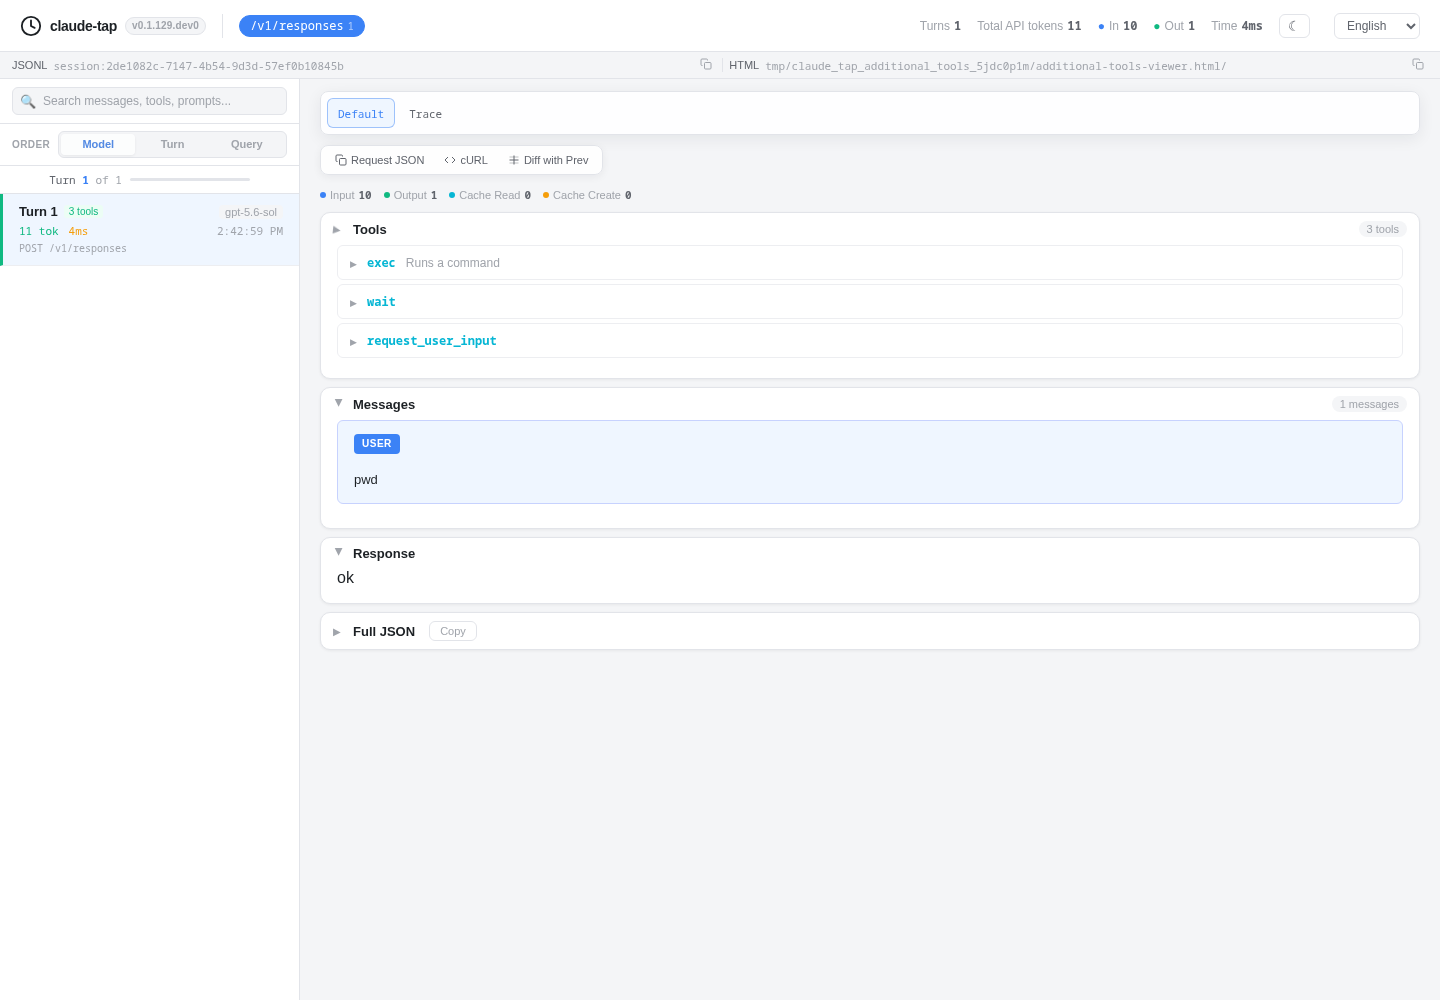
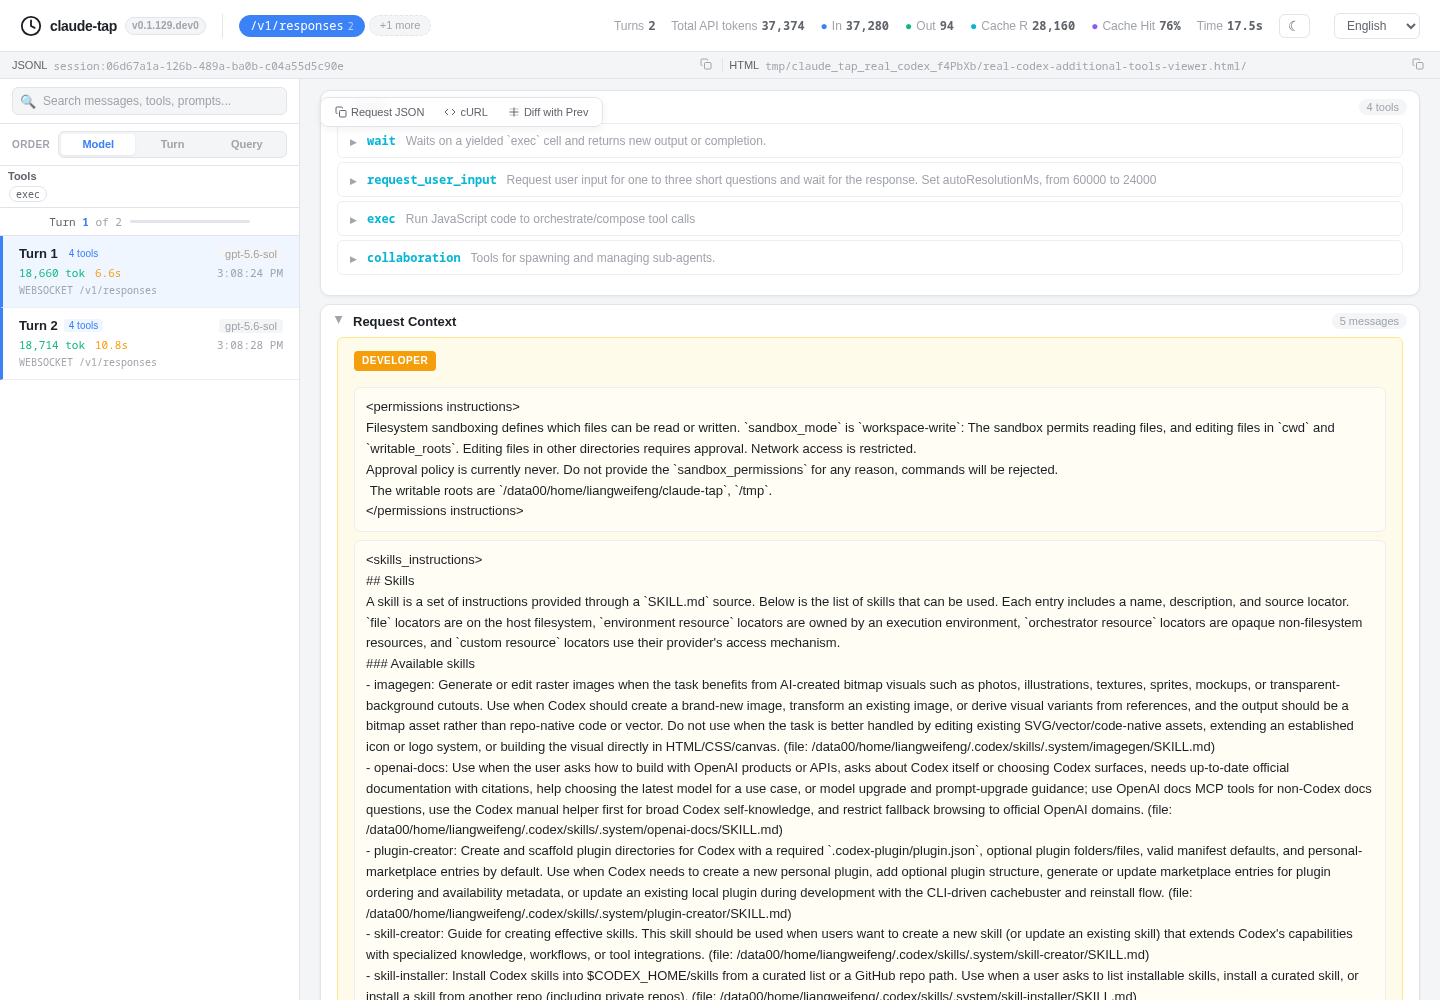
fix(viewer): preserve Codex websocket tools

diff --git a/claude_tap/viewer_assets/responses.js b/claude_tap/viewer_assets/responses.js
@@ -455,8 +455,20 @@ function stitchDirectResponsesEntry(entry, historyByResponseId) {
   const body = entry?.request?.body;
   const payload = getResponsePayload(entry) || {};
   if (!body || typeof body !== 'object') return entry;
-  if (!isDisplayableResponsesEntry(entry)) return null;
   const previousId = body.previous_response_id || payload.previous_response_id || '';
+  if (!isDisplayableResponsesEntry(entry)) {
+    const responseId = payload.id || '';
+    if (responseId) {
+      storeWebSocketResponseHistory(
+        historyByResponseId,
+        responseId,
+        previousId,
+        body,
+        responseBodyOutputMessages(payload.output),
+      );
+    }
+    return null;
+  }
   let nextEntry = entry;
   let requestBody = body;
   if (previousId) {

diff --git a/claude_tap/viewer_assets/filters_search.js b/claude_tap/viewer_assets/filters_search.js
@@ -333,7 +333,8 @@ function matchSearch(e, q) {
     if (sys.toLowerCase().includes(q)) return true;
     const turn = String(displayTurnLabel(e));
     if (turn.includes(q)) return true;
-    const tools = getRequestTools(e.request?.body);
+    const stubRequestTools = getRequestTools(e.request?.body);
+    const tools = stubRequestTools.length ? stubRequestTools : getRequestTools(getResponsePayload(e));
     for (const td of tools) {
       if (toolDisplayName(td).toLowerCase().includes(q)) return true;
     }
@@ -354,7 +355,8 @@ function matchSearch(e, q) {
     const mc = typeof m.content === 'string' ? m.content : JSON.stringify(m.content);
     if (mc.toLowerCase().includes(q)) return true;
   }
-  const tools = getRequestTools(body);
+  const requestTools = getRequestTools(body);
+  const tools = requestTools.length ? requestTools : getRequestTools(getResponsePayload(e));
   for (const td of tools) {
     if (toolDisplayName(td).toLowerCase().includes(q)) return true;
     if (toolDescription(td).toLowerCase().includes(q)) return true;
@@ -490,7 +492,9 @@ function getEntrySearchText(entry) {
   parts.push(body?.model || '');
   parts.push(extractSystem(body) || '');
   getMessages(body).forEach(m => parts.push(msgToText(m)));
-  getRequestTools(body).forEach(td => parts.push(JSON.stringify(td)));
+  const requestTools = getRequestTools(body);
+  const tools = requestTools.length ? requestTools : getRequestTools(getResponsePayload(resolved));
+  tools.forEach(td => parts.push(JSON.stringify(td)));
   const output = getResponseOutput(resolved);
   if (output?.content) parts.push(msgToText({ role: 'assistant', content: output.content }));
   getResponseEvents(resolved).forEach(ev => parts.push(JSON.stringify(ev)));

diff --git a/claude_tap/viewer_assets/detail_trace.js b/claude_tap/viewer_assets/detail_trace.js
@@ -117,10 +117,12 @@ function renderDetail(e) {
   const continuation = getResponsesContinuationInfo(e);
   if (continuation) html += renderResponsesContinuationNotice(continuation);
 
-  const tools = getRequestTools(reqBody);
   const sysPrompt = extractSystem(reqBody);
   const sysBlocks = extractSystemBlocks(reqBody);
   const respOutput = getResponseOutput(e);
+  const respPayload = getResponsePayload(e);
+  const requestTools = getRequestTools(reqBody);
+  const tools = requestTools.length ? requestTools : getRequestTools(respPayload);
   const msgs = getMessages(reqBody);
   const contextOnly = shouldRenderRequestContext(e, reqBody, msgs, respOutput);
   const streamEvents = getResponseEvents(e);

diff --git a/claude_tap/viewer_assets/sidebar.js b/claude_tap/viewer_assets/sidebar.js
@@ -513,7 +513,8 @@ function getTaskFingerprint(e) {
       .join('\n');
   }
   // Tool names sorted for stable fingerprint
-  const tools = getRequestTools(body);
+  const requestTools = getRequestTools(body);
+  const tools = requestTools.length ? requestTools : getRequestTools(getResponsePayload(e));
   const toolKey = tools.map(toolDisplayName).sort().join(',');
   // Build fingerprint from full system prompt + tool set
   const fp = sysText + '|' + toolKey;

diff --git a/tests/test_viewer_js_units.py b/tests/test_viewer_js_units.py
@@ -205,6 +205,69 @@ def test_viewer_split_js_core_units_run_without_playwright() -> None:
           ['exec', 'collaboration'],
         );
 
+        const codexPrefetchId = 'resp_prefetch_tools';
+        const codexVisibleId = 'resp_visible';
+        const codexExpanded = context.expandWebSocketResponseEntries([
+          {
+            transport: 'websocket',
+            request: {
+              method: 'WEBSOCKET',
+              path: '/v1/responses',
+              body: {
+                model: 'gpt-5.6-sol',
+                generate: false,
+                input: [{
+                  type: 'additional_tools',
+                  role: 'developer',
+                  tools: [
+                    { name: 'exec' },
+                    { name: 'wait' },
+                    { name: 'request_user_input' },
+                    { name: 'collaboration' },
+                  ],
+                }],
+              },
+            },
+            response: {
+              body: {
+                id: codexPrefetchId,
+                generate: false,
+                output: [],
+                usage: { input_tokens: 10, output_tokens: 0 },
+              },
+            },
+          },
+          {
+            transport: 'websocket',
+            request: {
+              method: 'WEBSOCKET',
+              path: '/v1/responses',
+              body: {
+                model: 'gpt-5.6-sol',
+                previous_response_id: codexPrefetchId,
+                input: [{ type: 'message', role: 'user', content: [{ type: 'input_text', text: 'Run pwd' }] }],
+              },
+            },
+            response: {
+              body: {
+                id: codexVisibleId,
+                previous_response_id: codexPrefetchId,
+                output: [{ type: 'message', role: 'assistant', content: [{ type: 'output_text', text: 'ok' }] }],
+                usage: { input_tokens: 20, output_tokens: 2 },
+              },
+            },
+          },
+        ]);
+        assert.equal(codexExpanded.length, 1);
+        assert.deepEqual(
+          plain(context.getRequestTools(codexExpanded[0].request.body).map(tool => context.toolDisplayName(tool))),
+          ['exec', 'wait', 'request_user_input', 'collaboration'],
+        );
+        assert.deepEqual(
+          plain(context.getMessages(codexExpanded[0].request.body).map(message => message.role)),
+          ['user'],
+        );
+
         const compactBundle = {
           __claude_tap_compact_trace__: { version: 1 },
           blobs: {